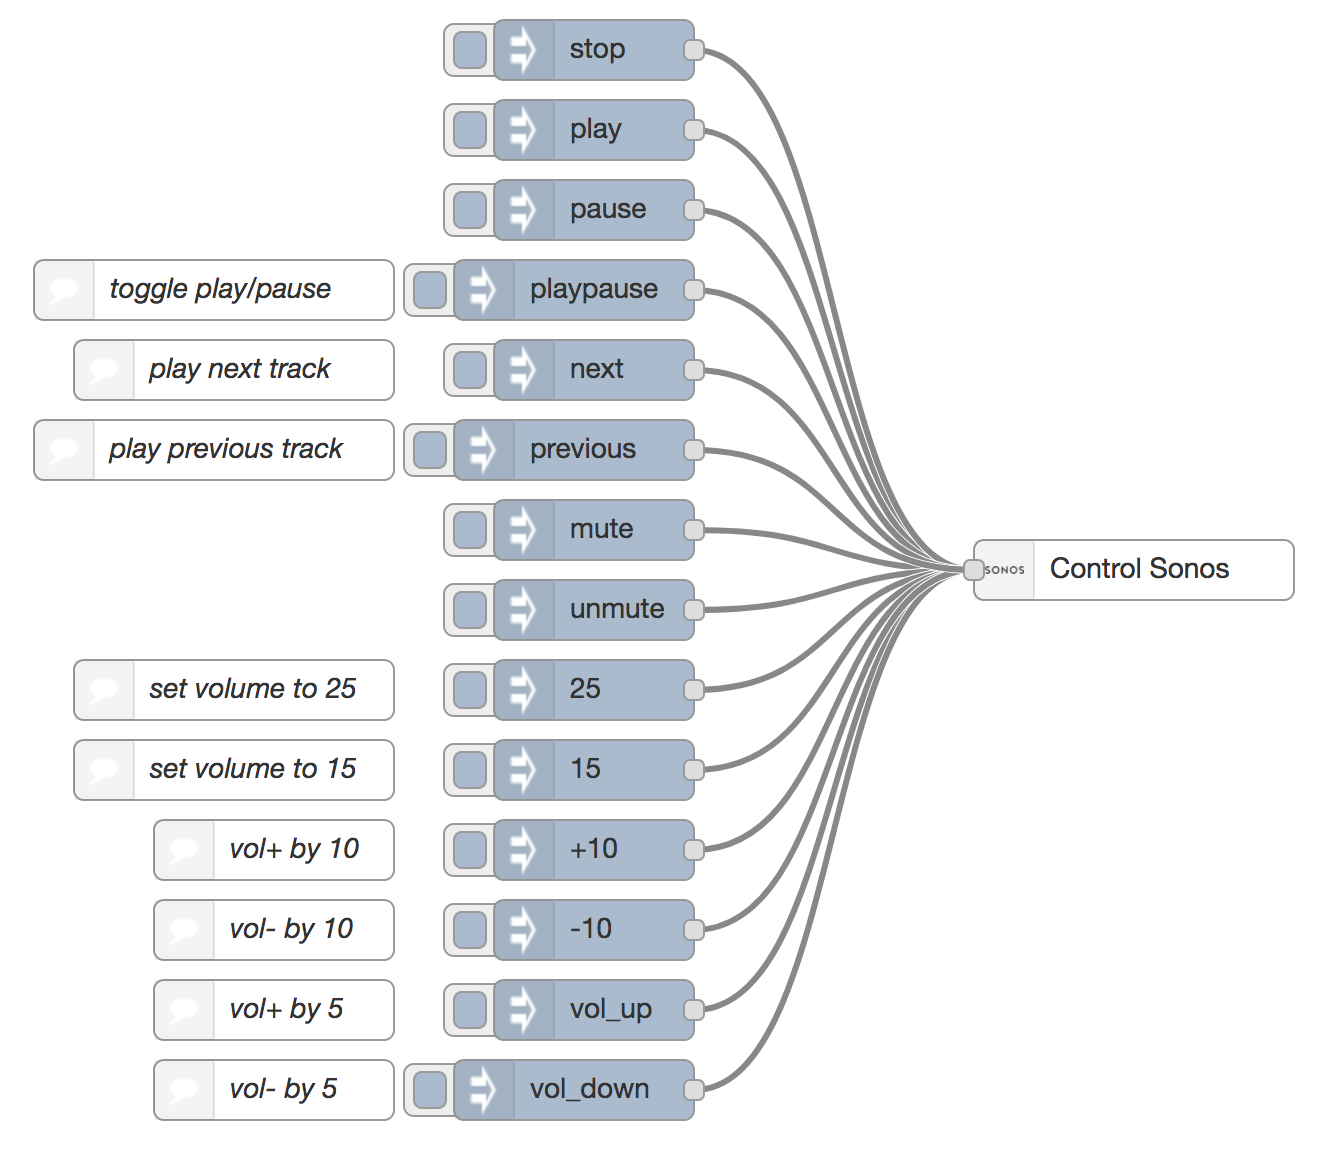
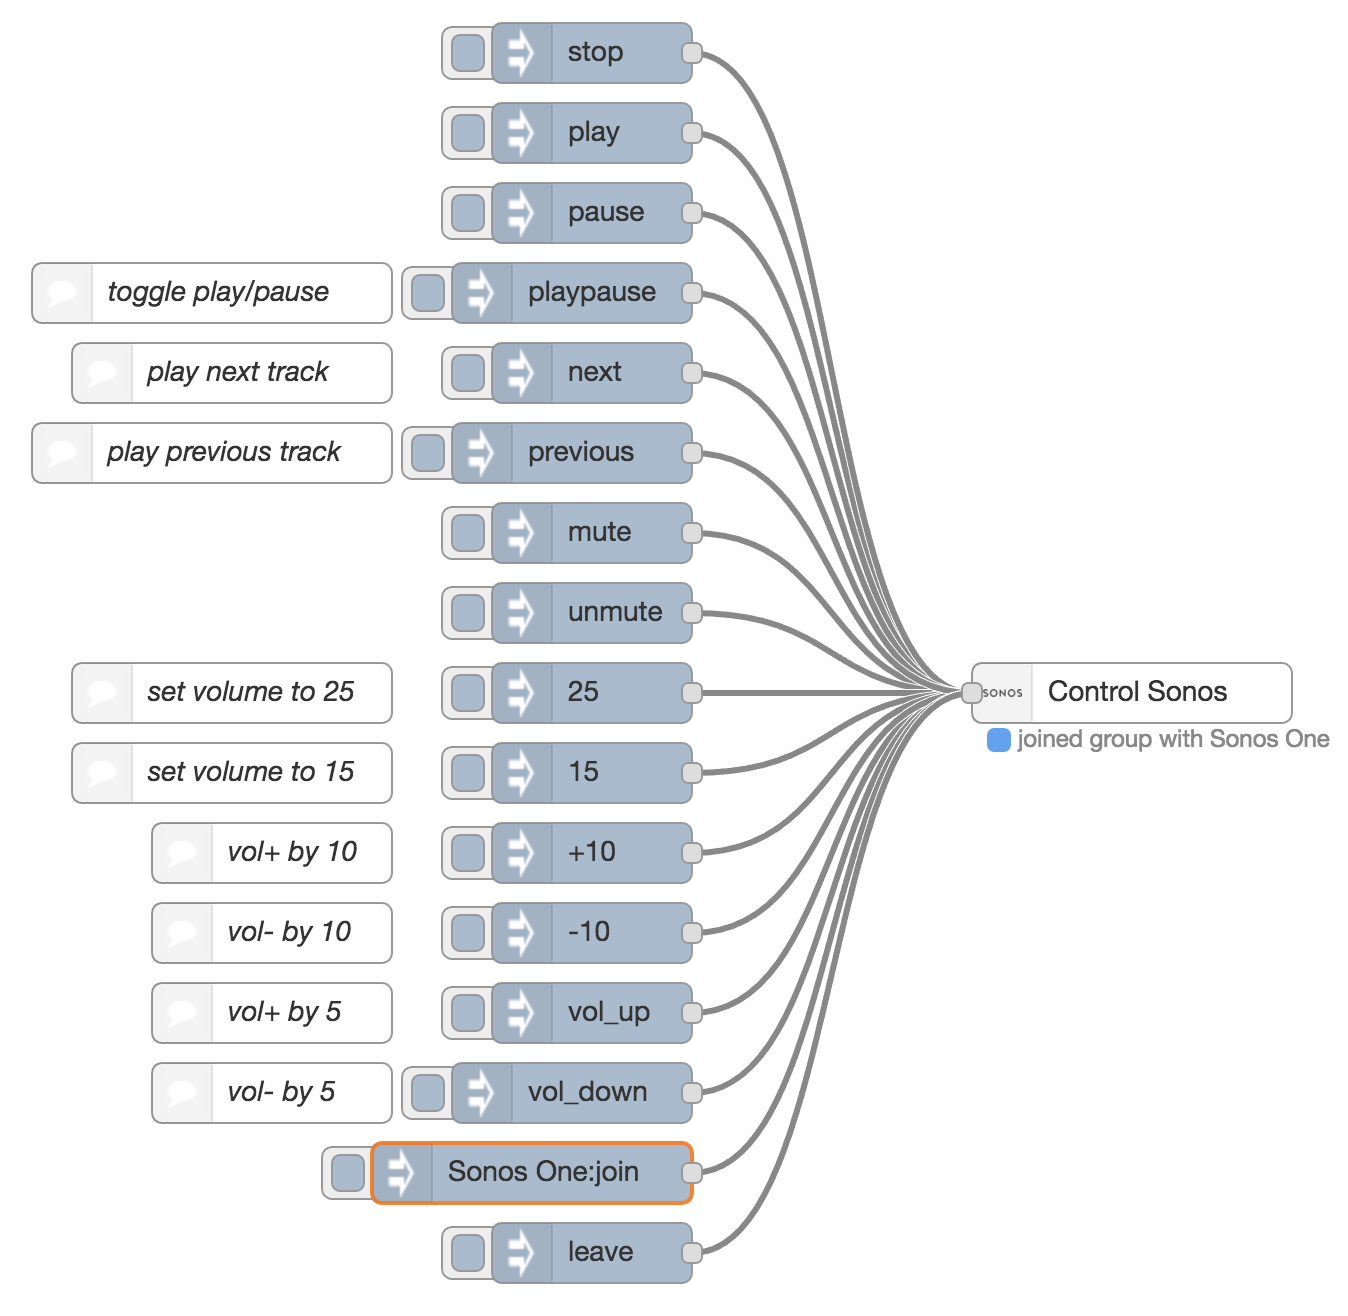
Update docs for leave/join commands

Changed region(s): [[0.0, 0.0, 0.9629, 1.0], [0.1553, 0.9375, 0.2485, 0.9688]]

diff --git a/sonos/sonos-control.html b/sonos/sonos-control.html
@@ -130,6 +130,8 @@
           <br/> • "vol-": decrease volume by 5%
           <br/> • +N: increase volume by N%
           <br/> • -N: decrease volume by N%
+          <br/> • leave: leave current group
+          <br/> • join: join another device in group (supply msg.topic with name of another device in group, case insensitive)
         </dd>
 
         <p><a href="https://raw.githubusercontent.com/originallyus/node-red-contrib-better-sonos/master/screenshot_input.png" target="_blank"><img src="https://raw.githubusercontent.com/originallyus/node-red-contrib-better-sonos/master/screenshot_input.png"></a></p>
